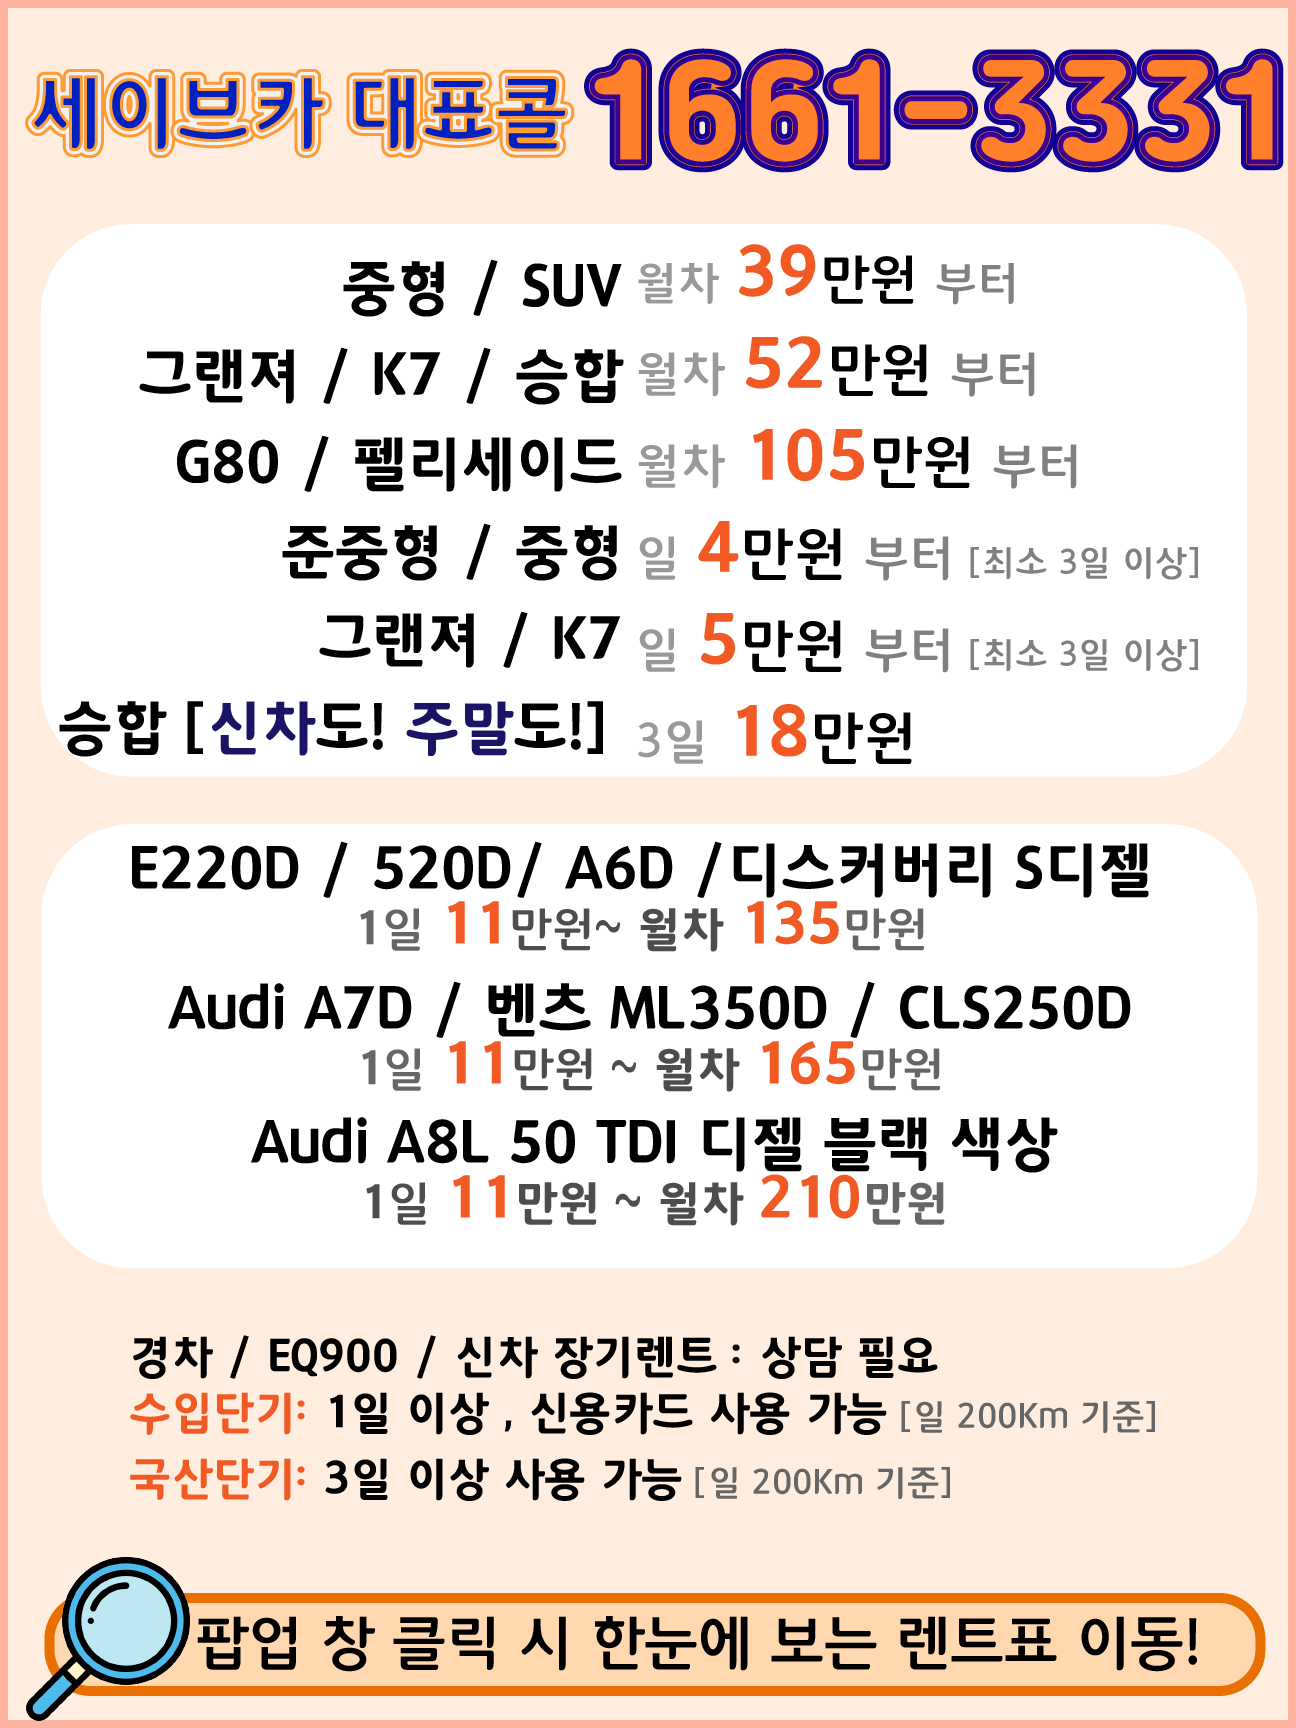
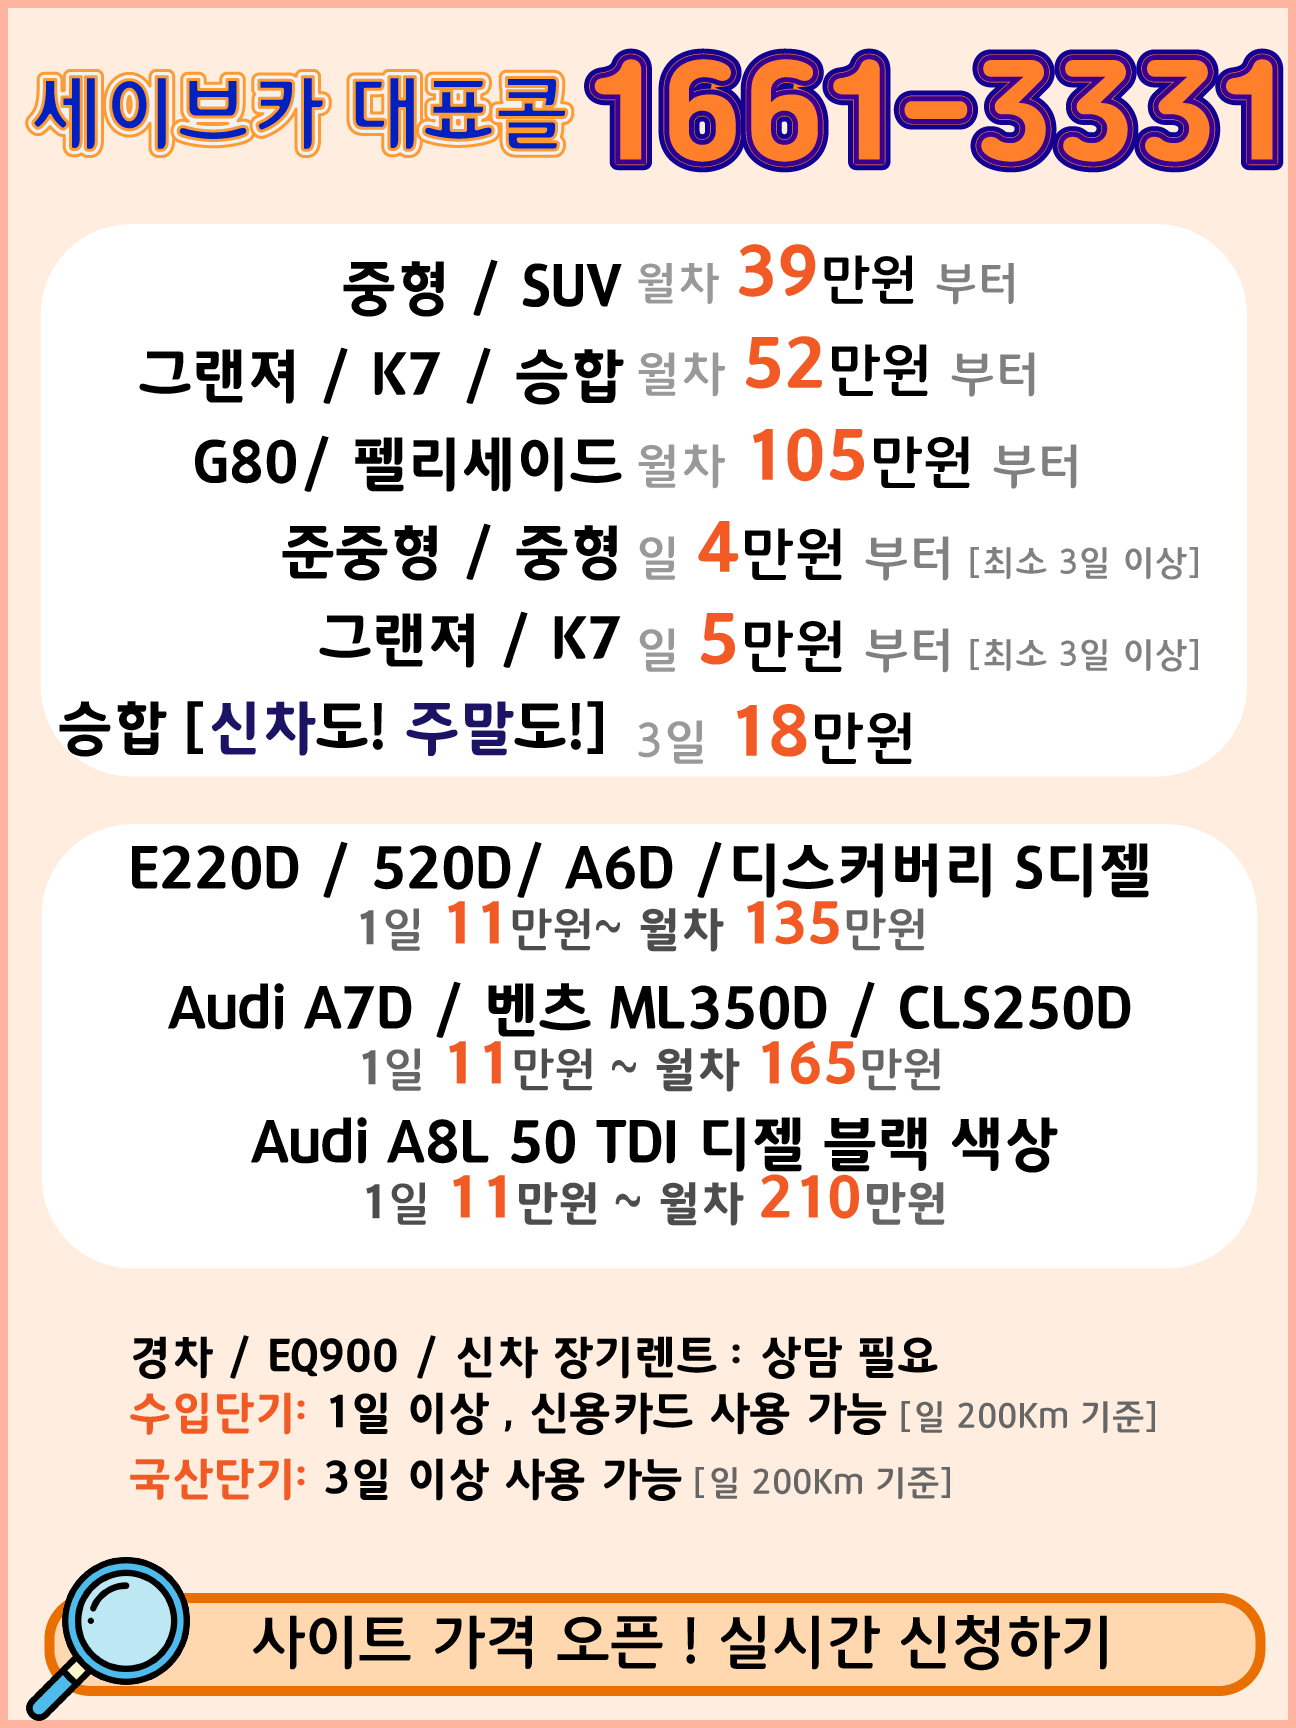
0709

Changed region(s): [[0.1543, 0.9375, 0.9259, 0.9688], [0.1235, 0.25, 0.2469, 0.2812]]

diff --git a/src/main/resources/templates/fragments/popup.html b/src/main/resources/templates/fragments/popup.html
@@ -4,9 +4,9 @@
 
 <!--popup Fragment 선언-->
 <th:block th:fragment="popupFragment" style="width:100%; margin:0 auto;" align="center">
-    <!-- POPUP -->
+    <!-- POPUP1 월렌트 -->
     <div id="divpop1" class="hidden-xs hidden-sm col-lg-12 col-md-12 popStyle1" style="visibility: visible;">
-        <a target='_blank' href="https://blog.naver.com/itscar/222272287511">
+        <a href="/rent/month">
         <table>
                 <tr>
                     <td style="" height="360" align="center">
@@ -28,9 +28,9 @@
         </a>
     </div>
 
-    <!-- POPUP -->
+    <!-- POPUP2 캠핑카렌트 -->
     <div id="divpop2" class="hidden-sm hidden-xs col-lg-12 col-md-12 popStyle2">
-        <a target='_blank' href="https://m.blog.naver.com/itscar/222406696672">
+        <a href="/europe">
         <table>
             <tr>
                 <td height="360" align="center">
@@ -53,7 +53,7 @@
 
 <!--    <div id="mobile_pop" align="center">-->
     <div id="divpop3" class="col-sm-12 col-xs-12 hidden-lg hidden-md popStyle3">
-        <a target='_blank' href="https://blog.naver.com/itscar/222272287511">
+        <a href="/rent/month">
         <table>
             <tr>
                 <td align="center">
@@ -62,13 +62,6 @@
                     </div>
                 </td>
             </tr>
-<!--            <tr>-->
-<!--                <td align="center">-->
-<!--                    <div class="popContentStyle2">-->
-<!--                        <img th:src="@{/img/popup-camp2.png}">-->
-<!--                    </div>-->
-<!--                </td>-->
-<!--            </tr>-->
             <tr>
                 <td align="right">
                     <form name="pop_form3">
@@ -82,7 +75,7 @@
     </div>
 
     <div id="divpop4" class="col-sm-12 col-xs-12 hidden-lg hidden-md popStyle4">
-        <a target='_blank' href="https://m.blog.naver.com/itscar/222406696672">
+        <a href="/europe">
             <table>
                 <tr>
                     <td align="center">

diff --git a/src/main/resources/templates/camping_liomousine.html b/src/main/resources/templates/camping_liomousine.html
@@ -60,7 +60,7 @@
             <div class="row text-center pinside10">
                 <div class="col-lg-12 col-md-12 col-sm-12 col-xs-12">
                     <div class="row padding-bottom-0 width-height-box">
-                        <p style="color: red">* 해당 상품은 현재 월렌트 이상만 예약가능합니다.</p>
+<!--                        <p style="color: red">* 해당 상품은 현재 월렌트 이상만 예약가능합니다.</p>-->
                         <img th:src="@{/img/limo2.jpg}" id="headerImg" width="100%" height="100%" style="object-fit:contain; max-height: 500px">
                     </div><br/><br/>
                     <div class="row">

diff --git a/src/main/resources/templates/index.html b/src/main/resources/templates/index.html
@@ -344,7 +344,7 @@
                     </div>
                     <!-- /.service block -->
                     <div class="form-group text-center">
-                        <a class="btn1 btn1-default" href="/liomousine">1개월 & 장기렌트</a>
+                        <a class="btn1 btn1-default" href="/liomousine">상담 신청 </a>
                     </div>
                     <br/>
                 </div>
